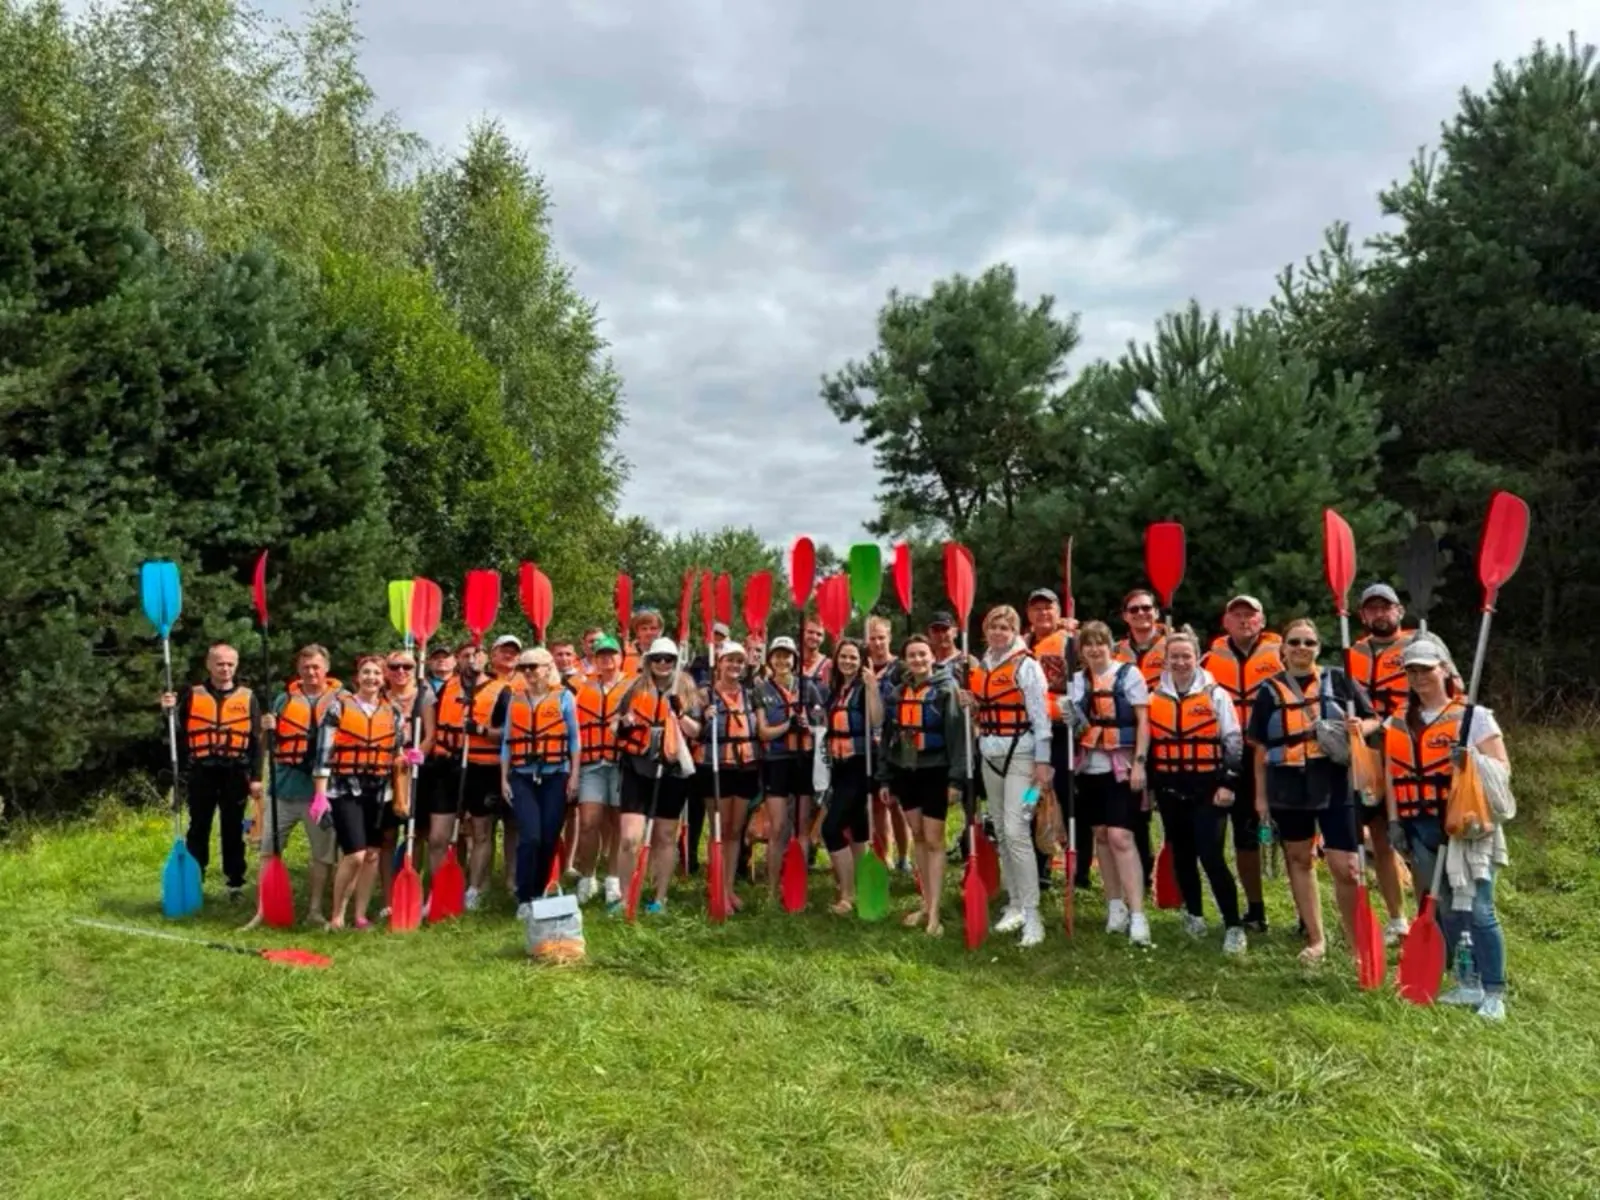
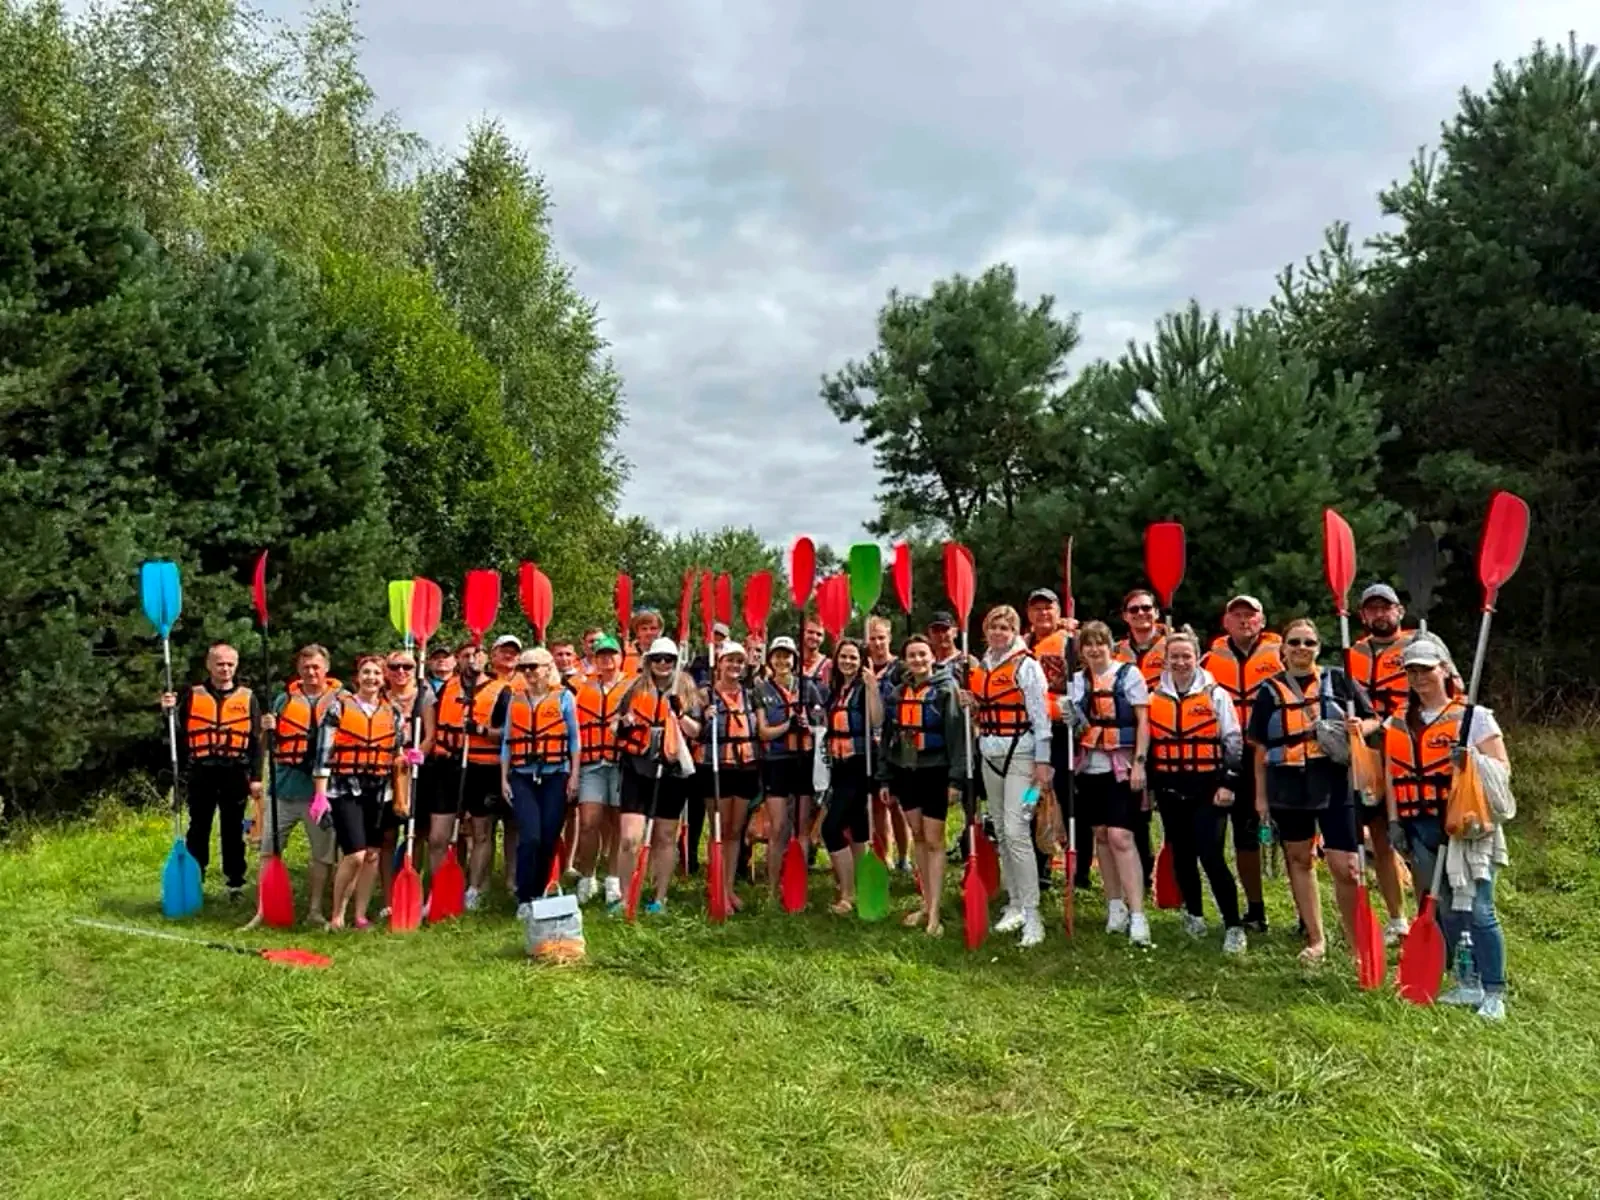
Career life gallery: real sharper frames — rafting enhanced, engineers at drawings, press brake team

diff --git a/pages/career.vue b/pages/career.vue
@@ -281,8 +281,8 @@ const hiringSteps = [
 
 const life = [
   { src: '/images/career/splav-2026.webp', alt: 'Команда ESP на корпоративном сплаве', caption: 'Корпоративный сплав, август 2026', wide: true },
-  { src: '/images/career/new-year-2026.jpg', alt: 'Новогоднее мероприятие ESP', caption: 'Новый год, декабрь 2026' },
-  { src: '/images/career/laser-cut.webp', alt: 'Лазерная резка металла в цехе ESP', caption: 'Производство в Заславле' }
+  { src: '/images/news/real/office-move-team.webp', alt: 'Инженеры ESP обсуждают проект за столом с чертежами', caption: 'Инженерный офис в Минске' },
+  { src: '/images/about/press-brake-team.webp', alt: 'Сотрудники ESP у листогибочного пресса в цехе', caption: 'Производство в Заславле' }
 
 ]
 
